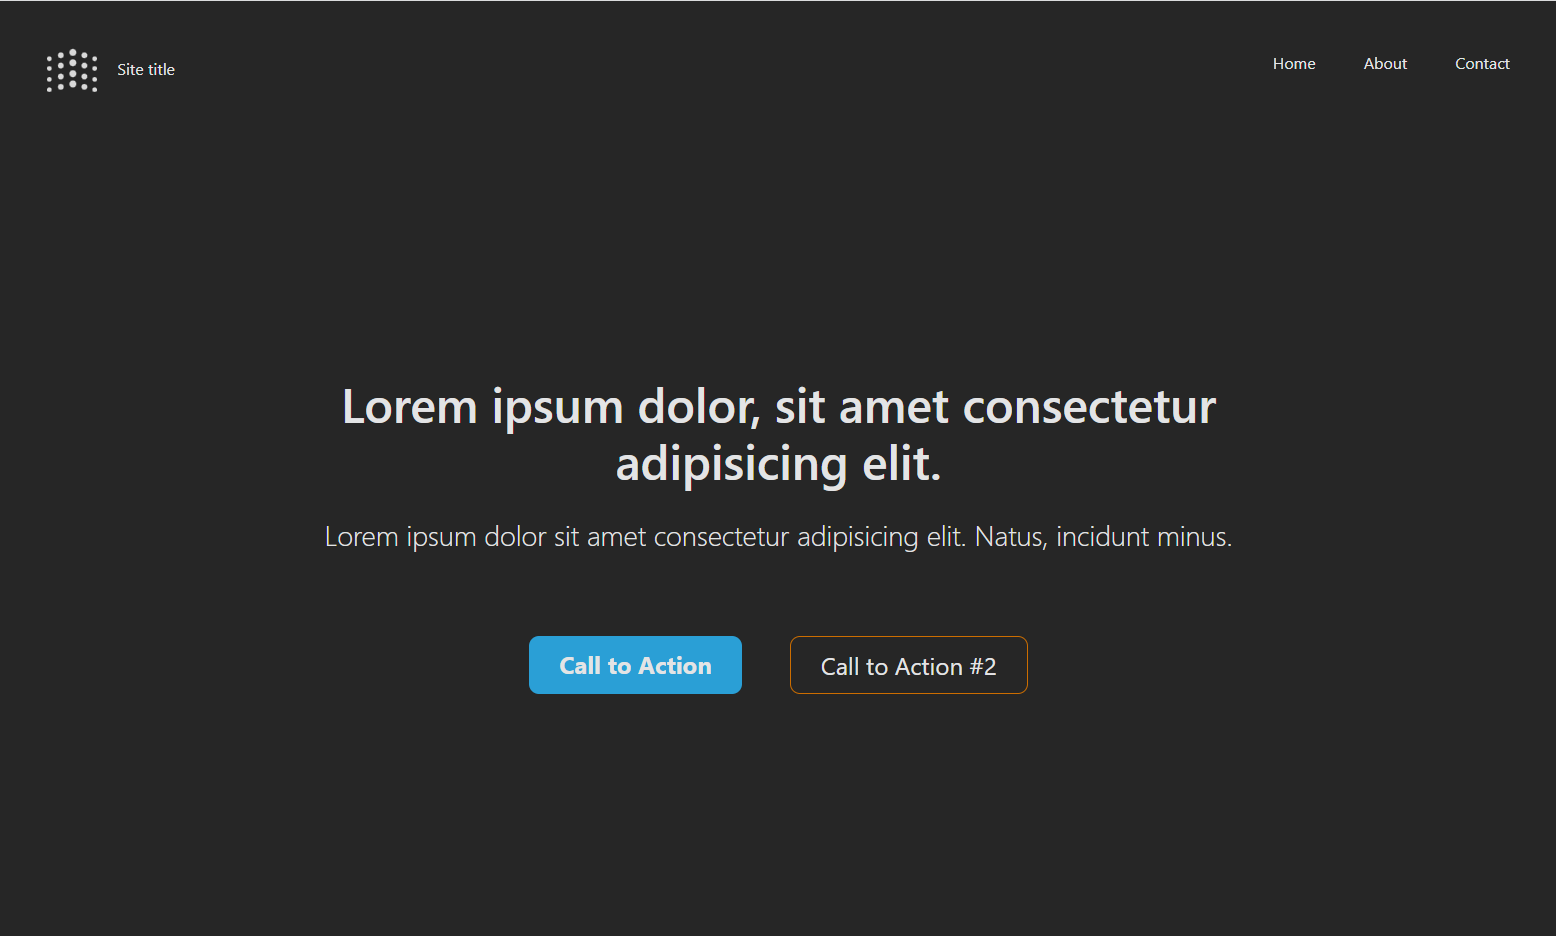
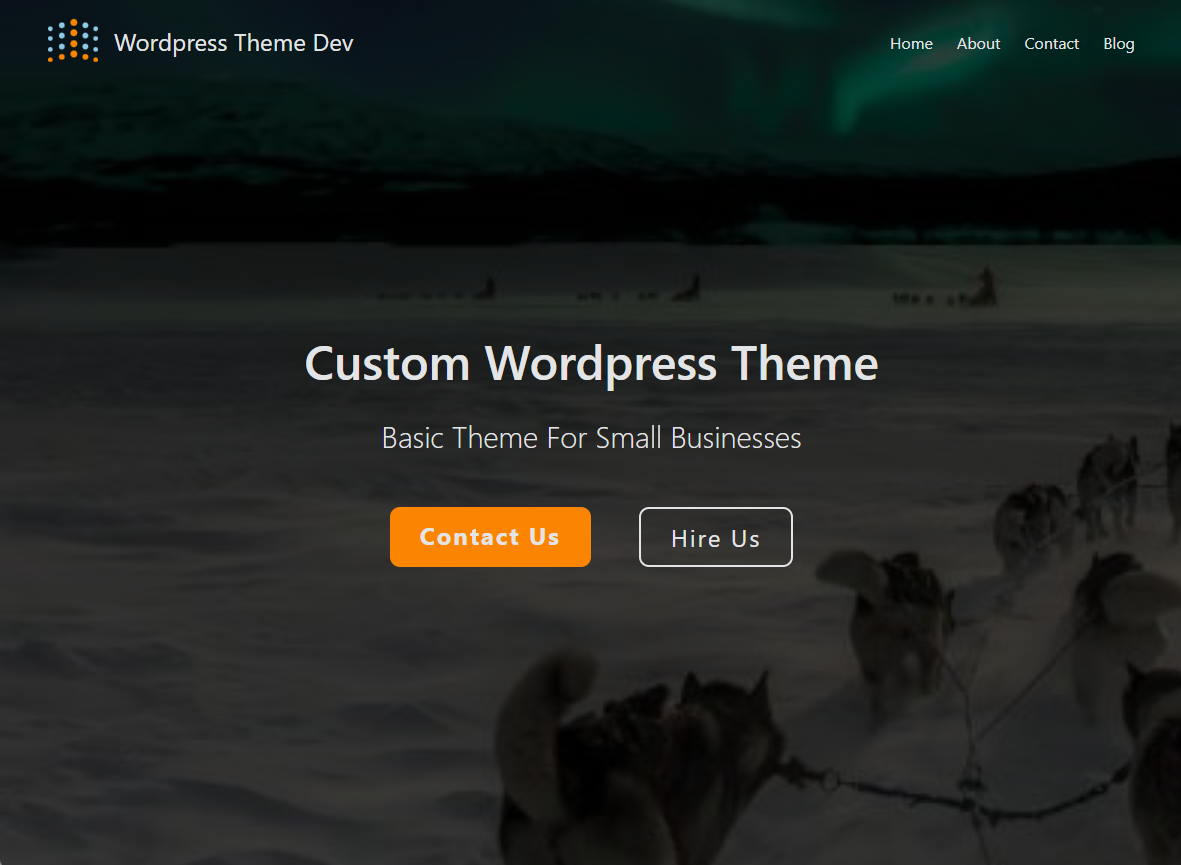
new screenshot

diff --git a/css/style.scss b/css/style.scss
@@ -1,8 +1,8 @@
 :root {
     --black: #262626;
     --white: #e3e4e5;
-    --primary: #2a9fd6;
-    --secondary: #cc6d00;
+    --primary: #182A4E;
+    --secondary: #fb8500;
     --accent: #7a29a3;
     --red: #a30000;
     --green: #5f8f00;
@@ -75,16 +75,24 @@
                 border-radius: 10px;
                 
                 a {
-                    color: var(--white);
                     text-decoration: none;
+                    letter-spacing: .12rem;
                 }
             }
             
             .cta-main {
-                background-color: var(--primary);
+                background-color: var(--secondary);
+                a {
+                    color: var(--white);
+                    font-weight: 700;
+                }
             }
             .cta-secondary {
-                border: 1px solid var(--secondary);
+                border: 2px solid var(--white);
+               a{
+                color: var(--white);
+                
+               } 
                
             }
         }
@@ -133,7 +141,7 @@
                     position: absolute;
                     width: 0;
                     height: 2px;
-                    background-color: red;
+                    background-color: var(--secondary);
                     top: 0;
                     left: 0;
                     transform-origin: left;
@@ -141,7 +149,7 @@
                 }
     
                 &:hover {
-                    color: red;
+                    color: var(--secondary);
                 }
 
                 &:hover::after {
@@ -197,9 +205,61 @@ footer {
     background: var(--black);
     color: var(--white);
     padding-bottom: 2rem;
+    line-height: 2rem;
 
+    h3 {
+        text-decoration: underline;
+    }
+
+    .right {
+
+    ul {
+        list-style-type: none;
+    }
+
+    a {
+        margin: 0 -1.75rem;
+        text-decoration: none;
+        color: var(--white);
+        transition: all .5s ease;
+        position: relative;
+    
+            &::after {
+                content: "";
+                position: absolute;
+                width: 0;
+                height: 2px;
+                background-color: var(--secondary);
+                top: 0;
+                left: 0;
+                transform-origin: left;
+                transition: all .5s ease;
+            }
+    
+            &:hover {
+                color: var(--secondary);
+            }
+
+            &:hover::after {
+                width: 100%;
+            }
+        }
+    }
     .copywrite {
+        display: flex;
+        flex-direction: row;
+        justify-content: center;
         font-size: clamp(12px, 30vw, 14px);
+
+        #seperator {
+            font-size: 1.25rem;
+            margin-top: -.25rem;
+        }
+
+        a {
+            color: var(--secondary);
+            text-decoration: none;
+        }
     }
 }
 // -------------------    MEDIA QUERIES   ----------------------------
@@ -225,6 +285,14 @@ footer {
     .wp-block-media-text__media {
         display: none;
     }
+
+    .copywrite {
+        flex-direction: column!important;
+
+        #seperator {
+            display: none;
+        }
+    }
 }
 
 
@@ -248,7 +316,14 @@ footer {
     }
 
     footer .sections {
-        display: block!important;
+        flex-direction: column!important;
+        width: 100%;
+        margin: 0 auto;
+
+        .section {
+            width: 70%;
+            margin: 0 auto;
+        }
     }
                 
 }

diff --git a/css/style.css b/css/style.css
@@ -1,8 +1,8 @@
 :root {
   --black: #262626;
   --white: #e3e4e5;
-  --primary: #2a9fd6;
-  --secondary: #cc6d00;
+  --primary: #182A4E;
+  --secondary: #fb8500;
   --accent: #7a29a3;
   --red: #a30000;
   --green: #5f8f00;
@@ -74,14 +74,21 @@
   border-radius: 10px;
 }
 .front-hero-section .hero .cta .cta-btn a {
-  color: var(--white);
   text-decoration: none;
+  letter-spacing: 0.12rem;
 }
 .front-hero-section .hero .cta .cta-main {
-  background-color: var(--primary);
+  background-color: var(--secondary);
+}
+.front-hero-section .hero .cta .cta-main a {
+  color: var(--white);
+  font-weight: 700;
 }
 .front-hero-section .hero .cta .cta-secondary {
-  border: 1px solid var(--secondary);
+  border: 2px solid var(--white);
+}
+.front-hero-section .hero .cta .cta-secondary a {
+  color: var(--white);
 }
 
 .header nav a {
@@ -116,14 +123,14 @@
   position: absolute;
   width: 0;
   height: 2px;
-  background-color: red;
+  background-color: var(--secondary);
   top: 0;
   left: 0;
   transform-origin: left;
   transition: all 0.5s ease;
 }
 .main-menu .menu-links a:hover {
-  color: red;
+  color: var(--secondary);
 }
 .main-menu .menu-links a:hover::after {
   width: 100%;
@@ -170,9 +177,51 @@ footer {
   background: var(--black);
   color: var(--white);
   padding-bottom: 2rem;
+  line-height: 2rem;
+}
+footer h3 {
+  text-decoration: underline;
+}
+footer .right ul {
+  list-style-type: none;
+}
+footer .right a {
+  margin: 0 -1.75rem;
+  text-decoration: none;
+  color: var(--white);
+  transition: all 0.5s ease;
+  position: relative;
+}
+footer .right a::after {
+  content: "";
+  position: absolute;
+  width: 0;
+  height: 2px;
+  background-color: var(--secondary);
+  top: 0;
+  left: 0;
+  transform-origin: left;
+  transition: all 0.5s ease;
+}
+footer .right a:hover {
+  color: var(--secondary);
+}
+footer .right a:hover::after {
+  width: 100%;
 }
 footer .copywrite {
+  display: flex;
+  flex-direction: row;
+  justify-content: center;
   font-size: clamp(12px, 30vw, 14px);
+}
+footer .copywrite #seperator {
+  font-size: 1.25rem;
+  margin-top: -0.25rem;
+}
+footer .copywrite a {
+  color: var(--secondary);
+  text-decoration: none;
 }
 
 @media screen and (max-width: 768px) {
@@ -196,6 +245,12 @@ footer .copywrite {
   .wp-block-media-text__media {
     display: none;
   }
+  .copywrite {
+    flex-direction: column !important;
+  }
+  .copywrite #seperator {
+    display: none;
+  }
 }
 @media screen and (max-width: 576px) {
   .hero {
@@ -213,6 +268,12 @@ footer .copywrite {
     display: none;
   }
   footer .sections {
-    display: block !important;
+    flex-direction: column !important;
+    width: 100%;
+    margin: 0 auto;
+  }
+  footer .sections .section {
+    width: 70%;
+    margin: 0 auto;
   }
 }

diff --git a/footer.php b/footer.php
@@ -1,19 +1,19 @@
 </main>
 <footer class="blog-footer">
     <div class="sections container d-flex mt-5 pt-5 gap-4 justify-content-between">
-        <div class="left">
+        <div class="left section">
             <h3>Locations</h3>
             <?php if(is_active_sidebar('footer-left')) : ?>
             <?php dynamic_sidebar('footer-left'); ?>
             <?php endif; ?>
         </div>
-        <div class="center">
+        <div class="center section">
             <h3>Services</h3>
             <?php if(is_active_sidebar('footer-center')) : ?>
             <?php dynamic_sidebar('footer-center'); ?>
             <?php endif; ?>
         </div>
-        <div class="right">
+        <div class="right section">
             <h3>Useful Links</h3>
             <?php
         wp_nav_menu( array(
@@ -27,8 +27,9 @@
         </div>
     </div>
     <div class="text-center mt-5 copywrite">
-        <span class="me-2">&copy; <?php echo Date('Y'); ?> - <?php bloginfo('name');?></span> |
-        <span class="ms-2"><a href="https://www.142webstudio.dev"> Built by 142 Web Studio</a></span>
+        <p class="me-2">&copy; <?php echo Date('Y'); ?> - <?php bloginfo('name');?></p>
+        <p id="seperator"> | </p>
+        <p class="ms-2"><a href="https://www.142webstudio.dev"> Built by 142 Web Studio</a></p>
     </div>
 </footer>
 <?php wp_footer(); ?>
